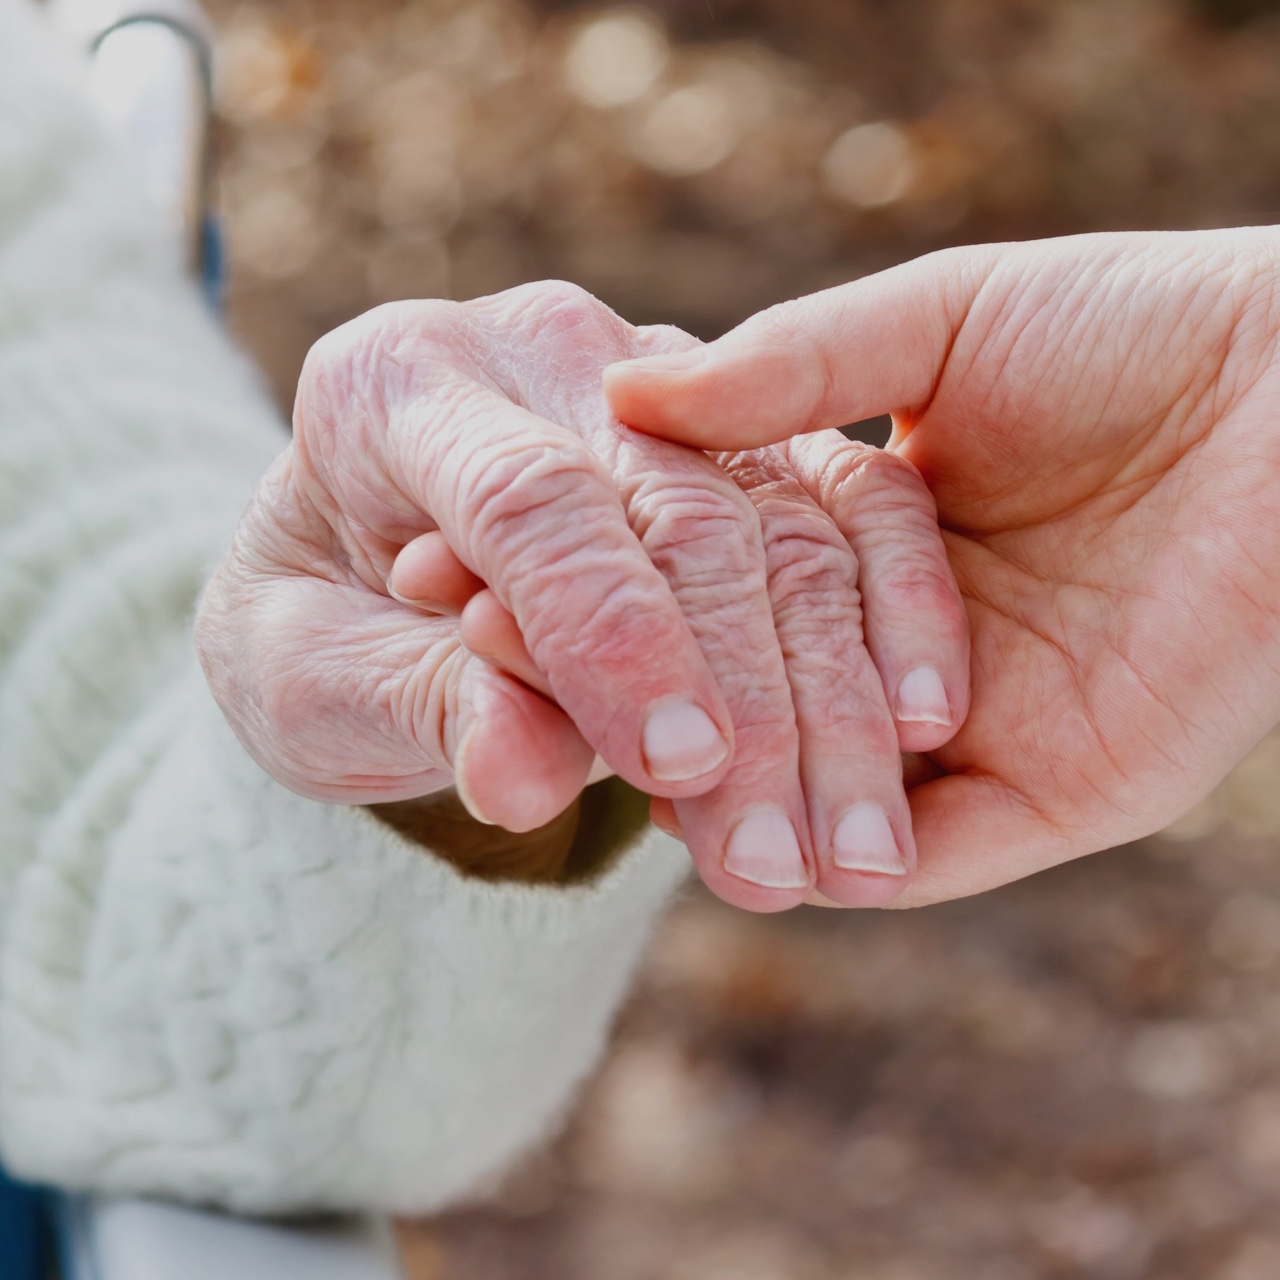
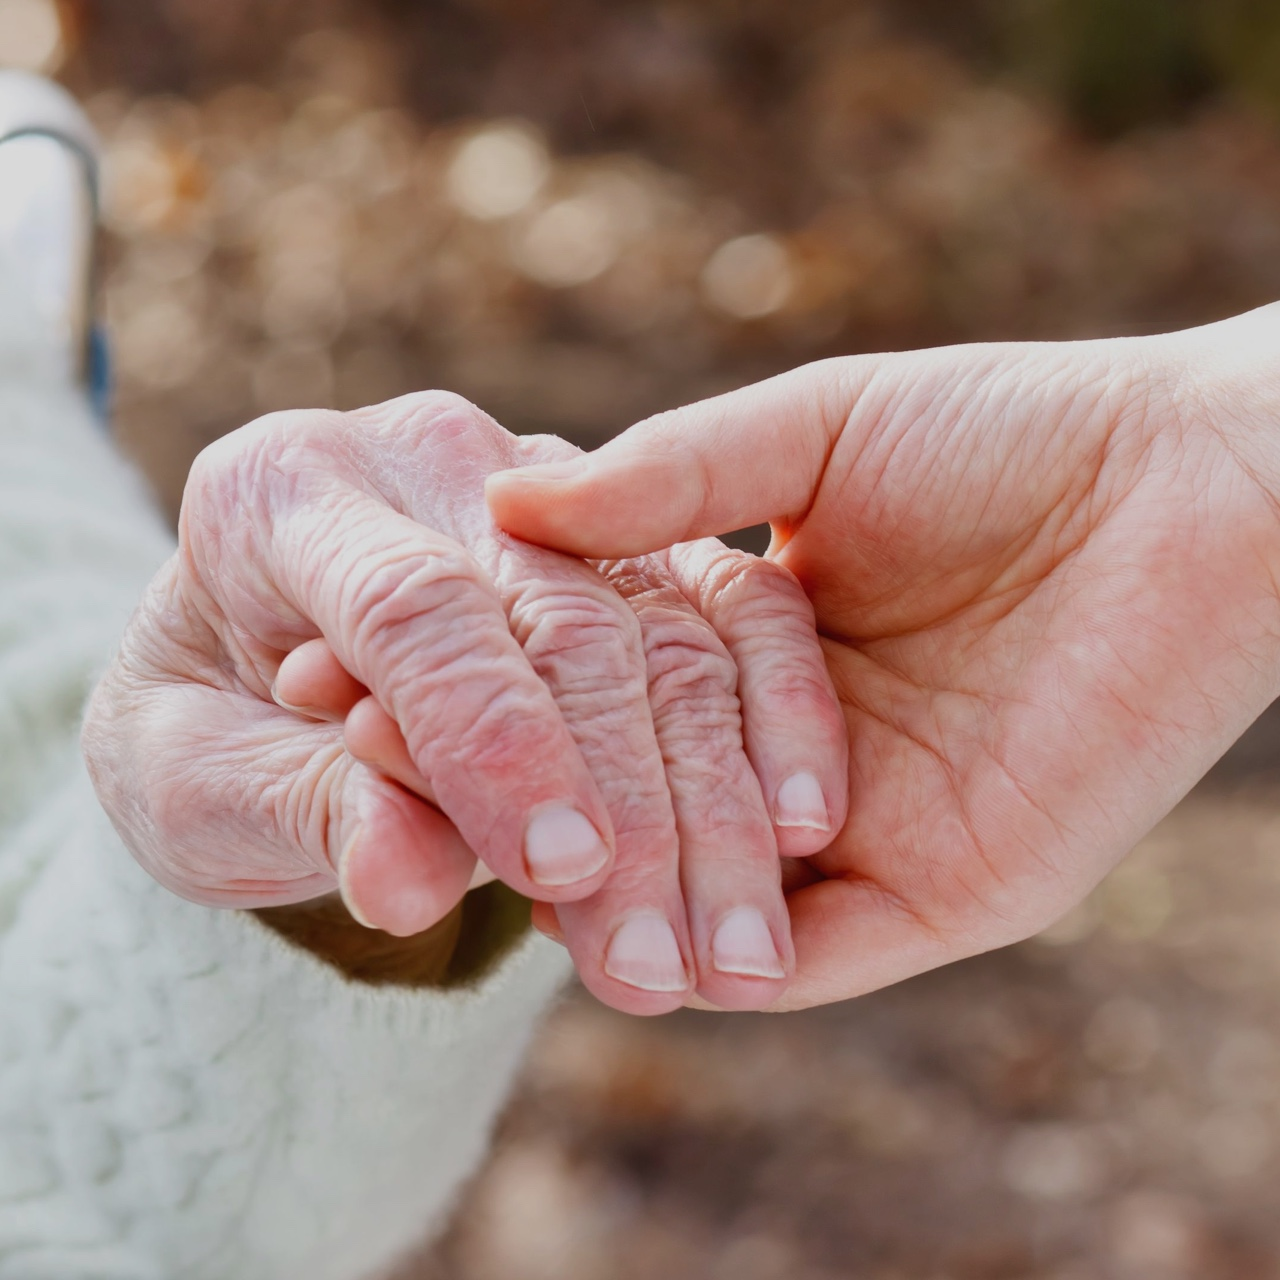
Make cover smarter

diff --git a/source/sass/elements/_cover.scss b/source/sass/elements/_cover.scss
@@ -30,37 +30,18 @@ Styleguide 3.17
  * 2. Text on an image backdrop is white
  */
 .cover {
-  // background-color: $color-blue; // Debug
   position: relative;
   overflow: hidden;
   background-color: transparent !important;
-  &--light {
-    // color: $color-dark-blue;
-    // .button {
-    //   color: $color-dark-blue;
-    //   border-color: $color-dark-blue;
-    // }
-  }
-  &--neutral {
-    // color: $color-body;
-    // .button {
-    //   color: $color-body;
-    //   border-color: $color-body;
-    // }
-  }
-  &--hero {
-
-  }
   &__image {
     background-color: #FFF;
     object-fit: cover;
     position: absolute;
     z-index: -1;
     width: auto;
+    height: auto;
     min-width: 100%;
     min-height: 100%;
-    // max-width: 100%;
-    // max-height: 100%;
 
     // top: 50%; /* 1 */
     // left: 50%; /* 1 */
@@ -69,18 +50,18 @@ Styleguide 3.17
   @include breakpoint($portrait) {
     &__image {
       bottom: 0;
+      left: 0;
       top: auto;
+      max-width: 100%;
     }
   }
   @include breakpoint($landscape) {
     &__image {
       right: 0;
       left: auto;
+      max-height: 100%;
     }
   }
-  // img {
-  //   max-width: 100%;
-  // }
 
   @include breakpoint($portrait) {
     &--hero &__image {

diff --git a/build/www/styles/screen.css b/build/www/styles/screen.css
@@ -1841,16 +1841,20 @@ Styleguide 3.17
     position: absolute;
     z-index: -1;
     width: auto;
+    height: auto;
     min-width: 100%;
     min-height: 100%; }
   @media only screen and (max-aspect-ratio: 6 / 5) {
     .cover__image {
       bottom: 0;
-      top: auto; } }
+      left: 0;
+      top: auto;
+      max-width: 100%; } }
   @media only screen and (min-aspect-ratio: 6 / 5) {
     .cover__image {
       right: 0;
-      left: auto; } }
+      left: auto;
+      max-height: 100%; } }
   @media only screen and (max-aspect-ratio: 6 / 5) {
     .cover--hero .cover__image {
       width: 100%;

diff --git a/build/www/testimonials/evean.php b/build/www/testimonials/evean.php
@@ -2,22 +2,18 @@
   <picture class="cover__image">
     <!--[if IE 9]><video style="display: none;"><![endif]-->
     <source
-      media="<?php echo $gt_medium_desktop; ?> and <?php echo $landscape; ?>"
-      srcset="/images/content/w1280px_h1280px--evean.jpg 1280w, /images/content/w1280px_h1280px--evean.jpg 2560w">
+      media="<?php echo $gt_medium_desktop; ?>"
+      sizes="<?php echo $gt_medium_desktop; ?> 67vw"
+      srcset="/images/content/w1280px_h1280px--evean.jpg 2560w, /images/content/w1280px_h1280px--evean.jpg 1280w">
     <source
-      media="<?php echo $gt_small_desktop; ?> and <?php echo $landscape; ?>"
-      srcset="/images/content/w683px_h1024px--evean.jpg 683w, /images/content/w683px_h1024px_2x--evean.jpg 1366w">
+      media="<?php echo $landscape; ?>"
+      sizes="100vw"
+      srcset="/images/content/w785px_h320px_3x--evean.jpg 2355w, /images/content/w785px_h320px_2x--evean.jpg 1570w, /images/content/w785px_h320px--evean.jpg 785w">
     <source
-      media="<?php echo $gt_large_handheld; ?> and <?php echo $portrait; ?>"
-      srcset="/images/content/w896px_h640px--evean.jpg 896w, /images/content/w896px_h640px_2x--evean.jpg 1792w">
-    <source
-      media="<?php echo $gt_medium_handheld; ?> and <?php echo $landscape; ?>"
-      srcset="/images/content/w1022px_h520px--evean.jpg 1022w, /images/content/w1022px_h520px_2x--evean.jpg 2044w">
-    <source
-      media="<?php echo $gt_small_handheld; ?> and <?php echo $portrait; ?>"
-      srcset="/images/content/w520px_h1022px--evean.jpg 520w, /images/content/w520px_h1022px_2x--evean.jpg 1040w">
+      media="<?php echo $portrait; ?>"
+      srcset="/images/content/w414px_h828px_3x--evean.jpg 1242w, /images/content/w414px_h828px_2x--evean.jpg 828w, /images/content/w414px_h828px--evean.jpg 414w">
     <!--[if IE 9]></video><![endif]-->
-    <img class="cover__image" src="/images/content/w320px_h576px--evean.jpg" alt="">
+    <img class="cover__image" src="/images/content/w1280px_h1280px--evean.jpg" alt="">
   </picture>
   <div class="pod__seed seed">
     <h3 class="seed__header meta meta--tiny leader--hero trailer">Testimonial</h3>

diff --git a/source/www/testimonials/evean.php b/source/www/testimonials/evean.php
@@ -2,22 +2,18 @@
   <picture class="cover__image">
     <!--[if IE 9]><video style="display: none;"><![endif]-->
     <source
-      media="<?php echo $gt_medium_desktop; ?> and <?php echo $landscape; ?>"
-      srcset="/images/content/w1280px_h1280px--evean.jpg 1280w, /images/content/w1280px_h1280px--evean.jpg 2560w">
+      media="<?php echo $gt_medium_desktop; ?>"
+      sizes="<?php echo $gt_medium_desktop; ?> 67vw"
+      srcset="/images/content/w1280px_h1280px--evean.jpg 2560w, /images/content/w1280px_h1280px--evean.jpg 1280w">
     <source
-      media="<?php echo $gt_small_desktop; ?> and <?php echo $landscape; ?>"
-      srcset="/images/content/w683px_h1024px--evean.jpg 683w, /images/content/w683px_h1024px_2x--evean.jpg 1366w">
+      media="<?php echo $landscape; ?>"
+      sizes="100vw"
+      srcset="/images/content/w785px_h320px_3x--evean.jpg 2355w, /images/content/w785px_h320px_2x--evean.jpg 1570w, /images/content/w785px_h320px--evean.jpg 785w">
     <source
-      media="<?php echo $gt_large_handheld; ?> and <?php echo $portrait; ?>"
-      srcset="/images/content/w896px_h640px--evean.jpg 896w, /images/content/w896px_h640px_2x--evean.jpg 1792w">
-    <source
-      media="<?php echo $gt_medium_handheld; ?> and <?php echo $landscape; ?>"
-      srcset="/images/content/w1022px_h520px--evean.jpg 1022w, /images/content/w1022px_h520px_2x--evean.jpg 2044w">
-    <source
-      media="<?php echo $gt_small_handheld; ?> and <?php echo $portrait; ?>"
-      srcset="/images/content/w520px_h1022px--evean.jpg 520w, /images/content/w520px_h1022px_2x--evean.jpg 1040w">
+      media="<?php echo $portrait; ?>"
+      srcset="/images/content/w414px_h828px_3x--evean.jpg 1242w, /images/content/w414px_h828px_2x--evean.jpg 828w, /images/content/w414px_h828px--evean.jpg 414w">
     <!--[if IE 9]></video><![endif]-->
-    <img class="cover__image" src="/images/content/w320px_h576px--evean.jpg" alt="">
+    <img class="cover__image" src="/images/content/w1280px_h1280px--evean.jpg" alt="">
   </picture>
   <div class="pod__seed seed">
     <h3 class="seed__header meta meta--tiny leader--hero trailer">Testimonial</h3>

diff --git a/build/www/landingpage/introduction.php b/build/www/landingpage/introduction.php
@@ -1,10 +1,4 @@
 <section class="pod pod--baboon introduction" data-collection="default">
-  <div class="pod__seed tile ">
-    <div>
-      <h2 class="title leader trailer">Blijer, gezonder en welvarender</h2>
-      <p class="leader trailer">Brickson is er voor ambitieuze merken in traditionele markten. Wij helpen ze om relevant te blijven en meer voor klanten te betekenen. Succesvolle merken kijken vooruit en stellen zich de vraag: hoe maak ik mijn klant blijer, gezonder en welvarender?</p>
-    </div>
-  </div>
   <div class="pod__seed tile cover backdrop isolation">
     <img
       sizes="<?php echo $gt_large_handheld; ?> 50vw, <?php echo $gt_medium_desktop; ?> 34vw, 100vw"
@@ -27,5 +21,11 @@
         /images/logos/w506px_h220px--brands.png 771w,
         /images/logos/w395px_h172px_2x--brands.png 790w,
         /images/logos/w395px_h172px--brands.png">
+  </div>
+  <div class="pod__seed tile ">
+    <div>
+      <h2 class="title leader trailer">Blijer, gezonder en welvarender</h2>
+      <p class="leader trailer">Brickson is er voor ambitieuze merken in traditionele markten. Wij helpen ze om relevant te blijven en meer voor klanten te betekenen. Succesvolle merken kijken vooruit en stellen zich de vraag: hoe maak ik mijn klant blijer, gezonder en welvarender?</p>
+    </div>
   </div>
 </section>

diff --git a/source/www/landingpage/introduction.php b/source/www/landingpage/introduction.php
@@ -1,10 +1,4 @@
 <section class="pod pod--baboon introduction" data-collection="default">
-  <div class="pod__seed tile ">
-    <div>
-      <h2 class="title leader trailer">Blijer, gezonder en welvarender</h2>
-      <p class="leader trailer">Brickson is er voor ambitieuze merken in traditionele markten. Wij helpen ze om relevant te blijven en meer voor klanten te betekenen. Succesvolle merken kijken vooruit en stellen zich de vraag: hoe maak ik mijn klant blijer, gezonder en welvarender?</p>
-    </div>
-  </div>
   <div class="pod__seed tile cover backdrop isolation">
     <img
       sizes="<?php echo $gt_large_handheld; ?> 50vw, <?php echo $gt_medium_desktop; ?> 34vw, 100vw"
@@ -27,5 +21,11 @@
         /images/logos/w506px_h220px--brands.png 771w,
         /images/logos/w395px_h172px_2x--brands.png 790w,
         /images/logos/w395px_h172px--brands.png">
+  </div>
+  <div class="pod__seed tile ">
+    <div>
+      <h2 class="title leader trailer">Blijer, gezonder en welvarender</h2>
+      <p class="leader trailer">Brickson is er voor ambitieuze merken in traditionele markten. Wij helpen ze om relevant te blijven en meer voor klanten te betekenen. Succesvolle merken kijken vooruit en stellen zich de vraag: hoe maak ik mijn klant blijer, gezonder en welvarender?</p>
+    </div>
   </div>
 </section>
